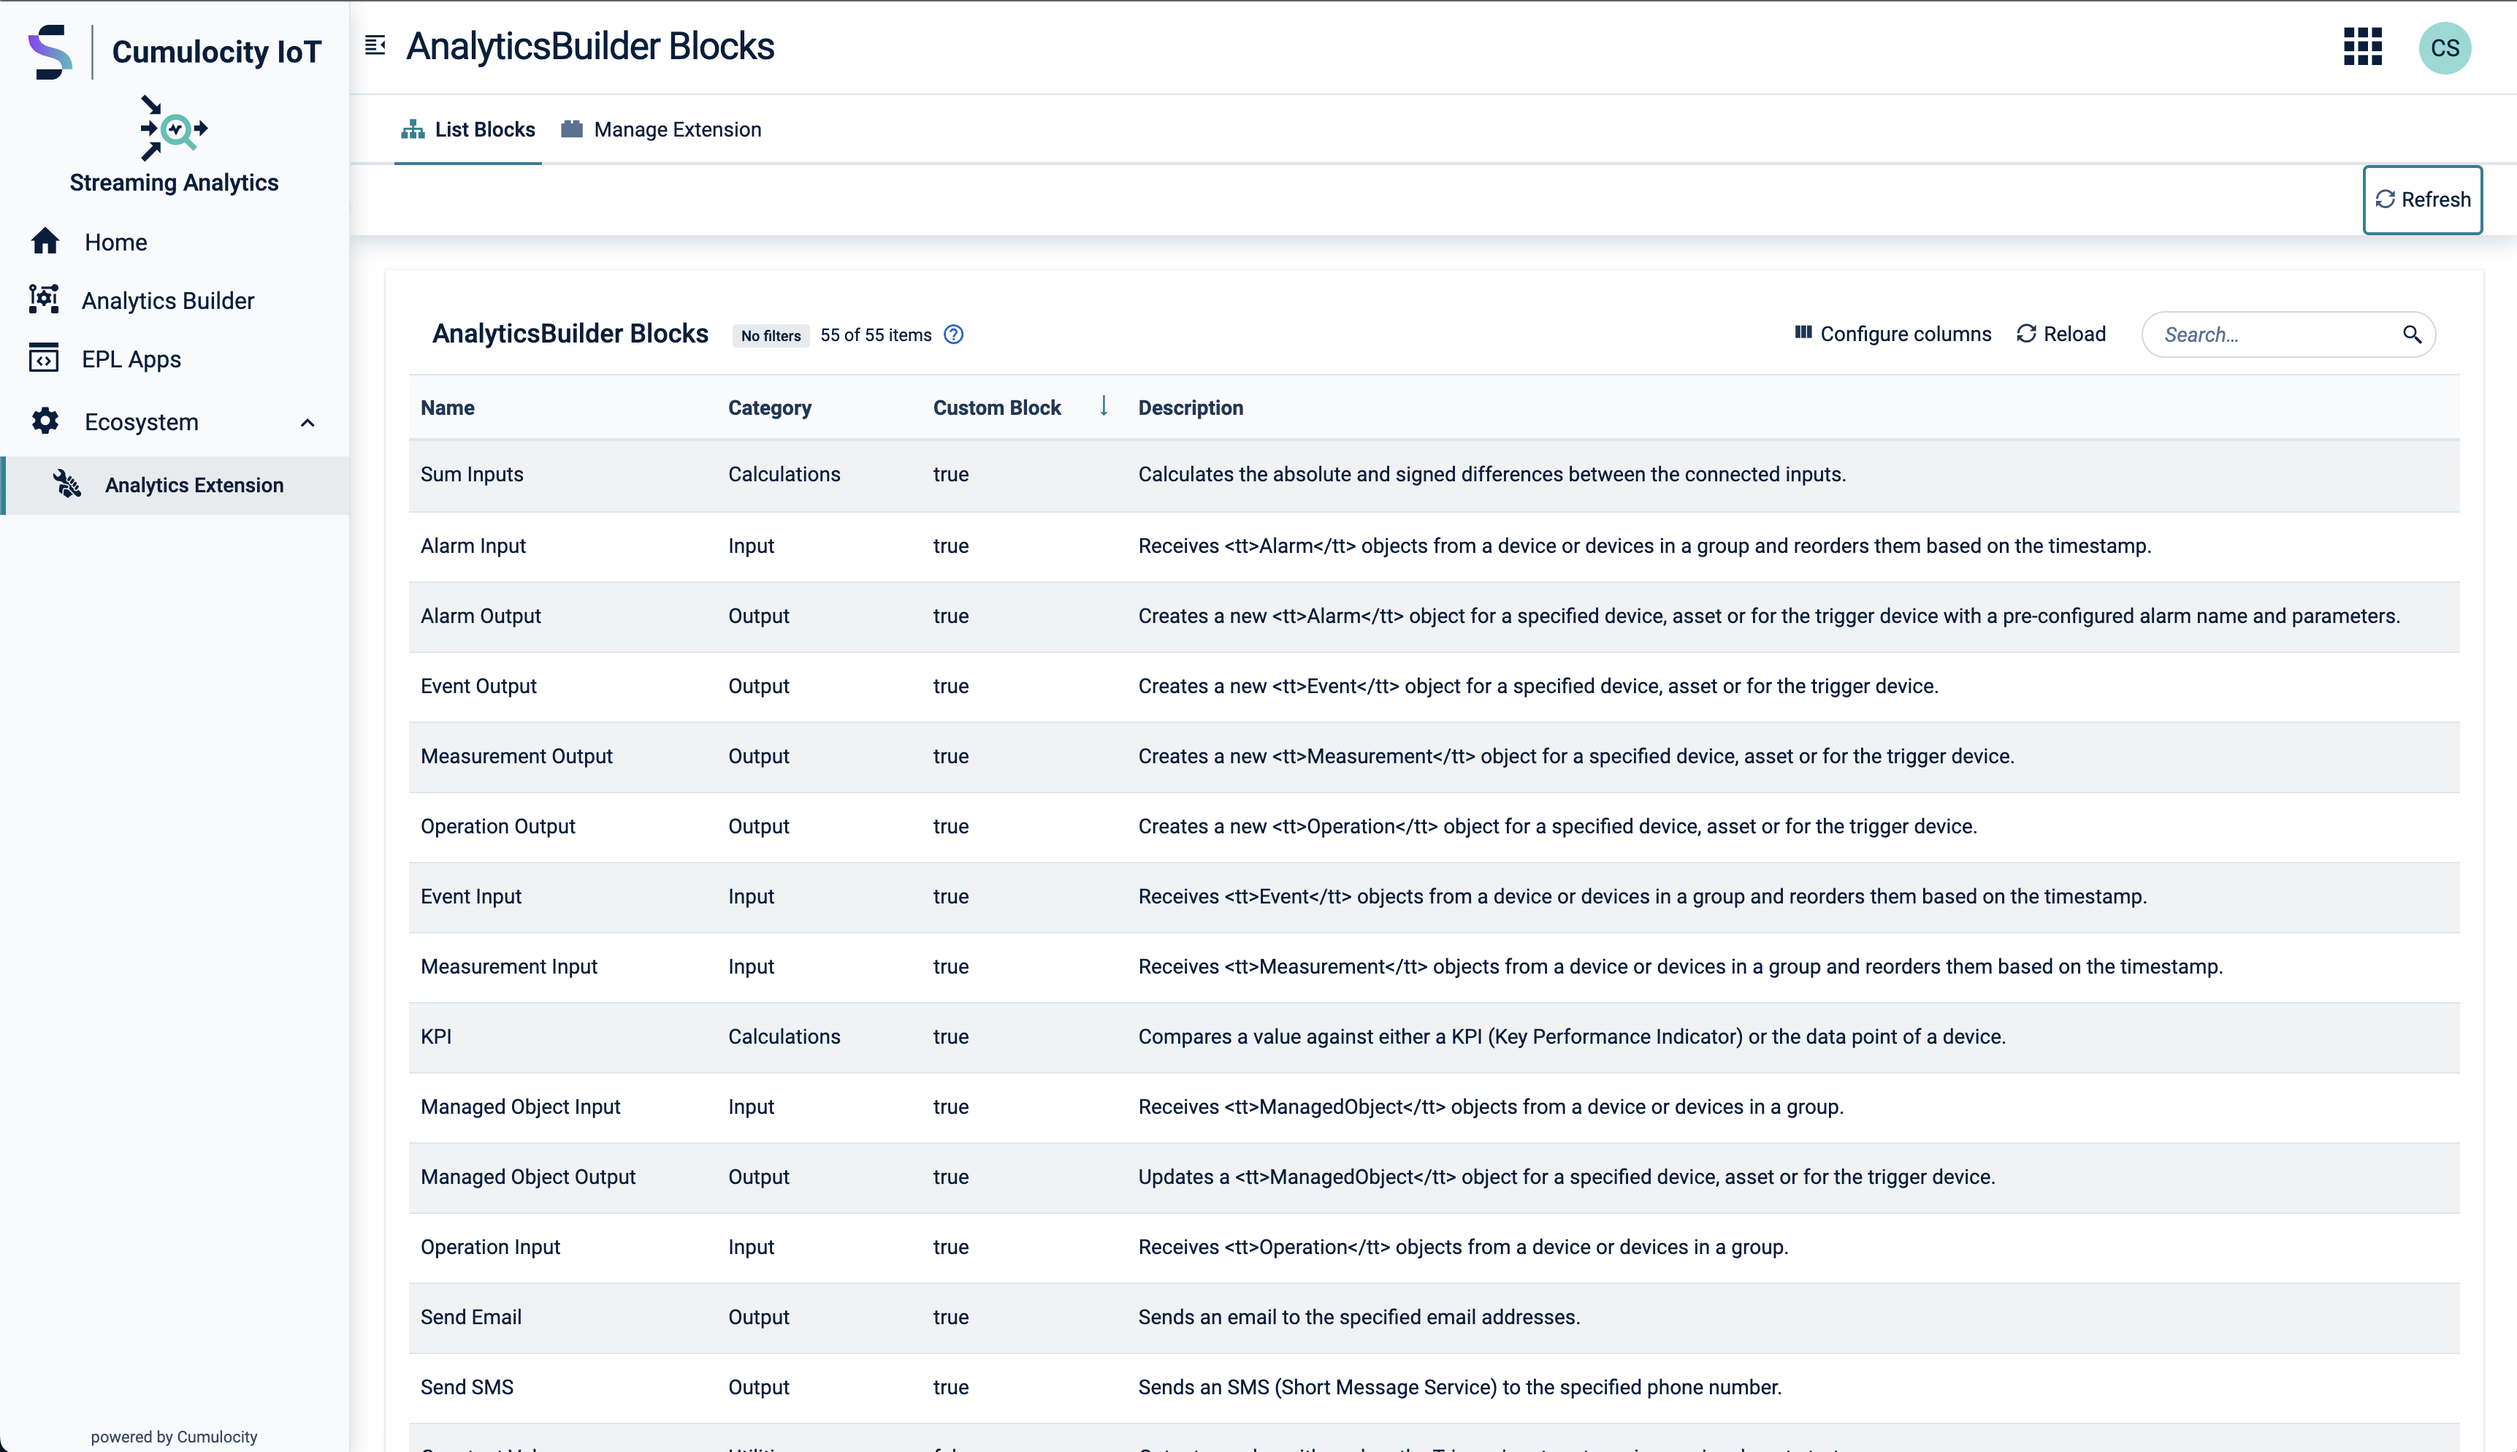
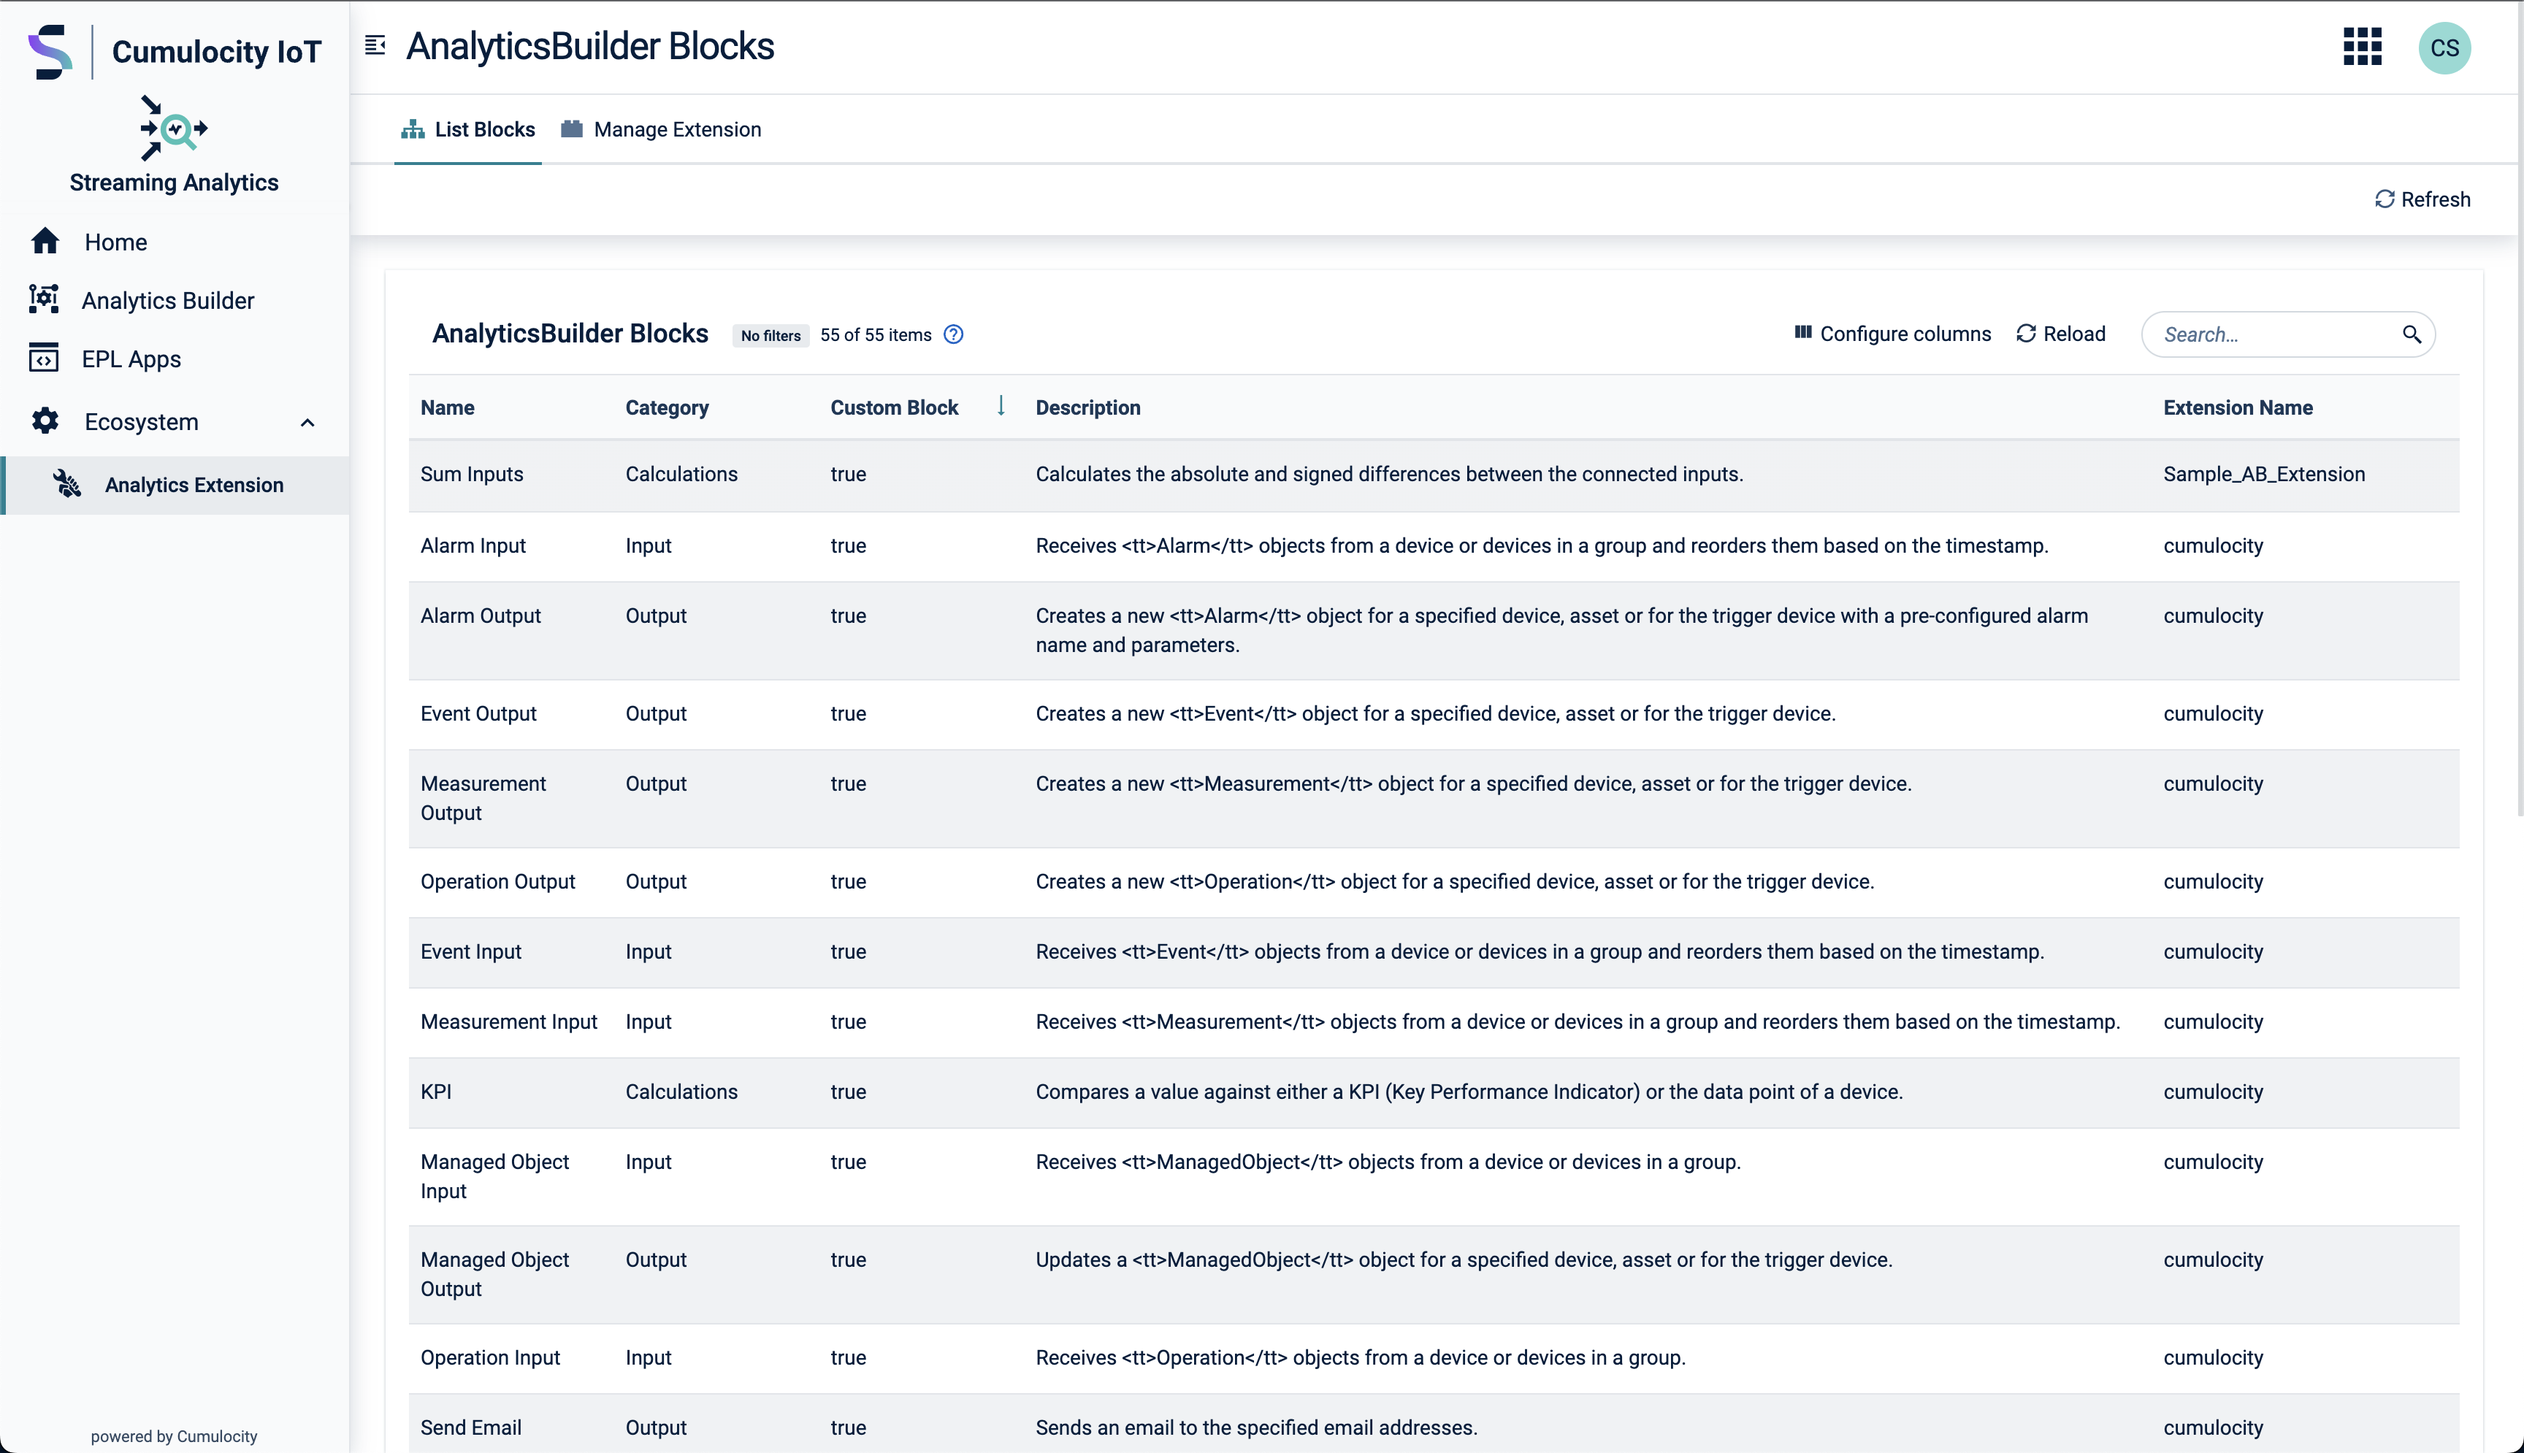
updated documentation

diff --git a/README.md b/README.md
@@ -10,6 +10,11 @@ Extends the standard cumulocity administration web application with a dialog to 
 </p>
 <br/> -->
 
+In addition a table lists all installed blocks, with information if it is a custom block.
+
+![Block list](resources/images/block-list.png)
+
+
 # Content
 - [cumulocity-analytics-management](#cumulocity-analytics-management)
 - [Content](#content)
